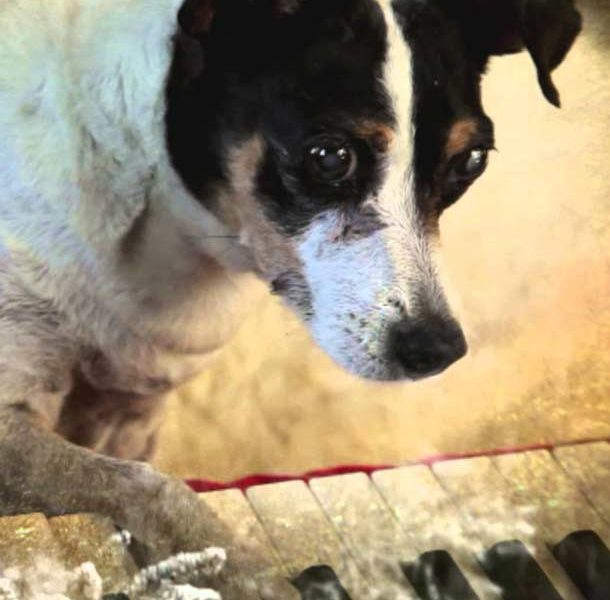
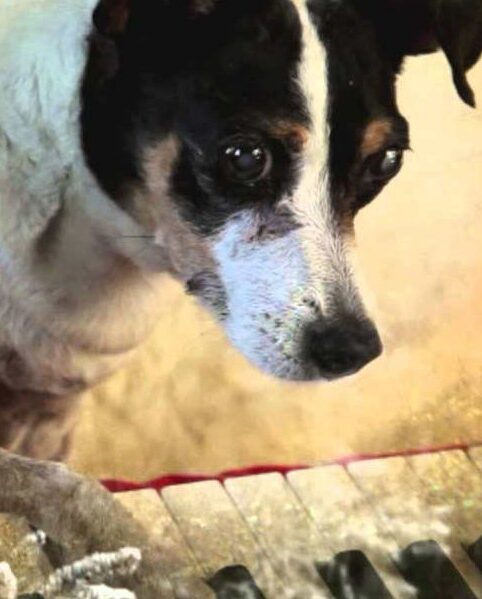
Progreso con el css de la última página (obras)

diff --git a/pag3-obras.html b/pag3-obras.html
@@ -1,62 +1,104 @@
 <!DOCTYPE html>
 <html lang="es">
-    <head>
-        <title>Laurie Anderson - Obras</title>
-        <meta charset="UTF-8">
-        <link href="estilos.css" rel="stylesheet">
-        <link rel="icon" type="image/x-icon" href="materiales-extra/logo-icon.ico">
-    </head>
-    <body>
-        <a id="inicio"></a>
-        <header>
-            <p id="nombre-header">Laurie Anderson</p>
-            <a href="index.html" class="logo-link"><img src="materiales-extra/logo-header.png" alt="Logo de parche de Laurie Anderson" height="200" width="200" class="logo-header"></a>
-            <nav>
-                <ul>
-                    <div class="vinculos-header">
-                        <li><a href="pag2-metodologia.html">Metodología</a></li>
-                        <li><a href="pag3-obras.html">Obras</a></li>
-                    </div>
-                    <li class="redes"><a href="http://www.twitter.com/onlyanexpert" target="_blank"><img
-                                src="materiales-extra/twitter.png" alt="Logo de Twitter" class="twitter"></a></li>
-                    <li class="redes"><a href="https://www.facebook.com/LaurieAnderson" target="_blank"><img
-                                src="materiales-extra/facebook.png" alt="Logo de Facebook" class="facebook"></a></li>
-                    <li class="redes"><a href="http://instagram.com/laurieandersonofficial" target="_blank"><img
-                                src="materiales-extra/instagram.png" alt="Logo de Instagram" class="instagram"></a></li>
-                </ul>
-            </nav>
-        </header>
-        <main>
-            <section>
+
+<head>
+    <title>Laurie Anderson - Obras</title>
+    <meta charset="UTF-8">
+    <link href="estilos.css" rel="stylesheet">
+    <link rel="icon" type="image/x-icon" href="materiales-extra/logo-icon.ico">
+</head>
+
+<body>
+    <a id="inicio"></a>
+    <header>
+        <p id="nombre-header">Laurie Anderson</p>
+        <a href="index.html" class="logo-link"><img src="materiales-extra/logo-header.png"
+                alt="Logo de parche de Laurie Anderson" height="200" width="200" class="logo-header"></a>
+        <nav>
+            <ul>
+                <div class="vinculos-header">
+                    <li><a href="pag2-metodologia.html">Metodología</a></li>
+                    <li><a href="pag3-obras.html">Obras</a></li>
+                </div>
+                <li class="redes"><a href="http://www.twitter.com/onlyanexpert" target="_blank"><img
+                            src="materiales-extra/twitter.png" alt="Logo de Twitter" class="twitter"></a></li>
+                <li class="redes"><a href="https://www.facebook.com/LaurieAnderson" target="_blank"><img
+                            src="materiales-extra/facebook.png" alt="Logo de Facebook" class="facebook"></a></li>
+                <li class="redes"><a href="http://instagram.com/laurieandersonofficial" target="_blank"><img
+                            src="materiales-extra/instagram.png" alt="Logo de Instagram" class="instagram"></a></li>
+            </ul>
+        </nav>
+    </header>
+    <main>
+        <section class="sec-obras1">
+            <div class="textos">
                 <h1>Tecnología, narrativa y experimentación</h1>
                 <h2>¡Soltate!</h2>
-                <p>En la siguiente entrevista, la legendaria artista multimedial, música y directora Laurie Anderson utiliza esta simple palabra para aconsejar a los jóvenes artistas de no sentirse presionado a limitarse artísticamente a sí mismos.</p>
-                <iframe width="560" height="315" src="https://www.youtube.com/embed/Vzt2p4XkKco?si=obBYfhq2NNDi8q4d" title="YouTube video player" frameborder="0" allow="accelerometer; autoplay; clipboard-write; encrypted-media; gyroscope; picture-in-picture; web-share" referrerpolicy="strict-origin-when-cross-origin" allowfullscreen></iframe>
-                <p>"Es muy fácil ser subestimado en el mundo del arte". Anderson es consciente de que las ventas son un factor importante en el arte – "Soy una ciudadana del siglo 21 en un mundo altamente corporativo" – pero a pesar de eso, ella sostiene que siempre debes seguir tus propios intereses y pasiones: "Lo que sea que te haga sentir libre y realmente bien – eso es lo que debes hacer. Es así de simple."</p>
-            </section>
-            <section>
+                <p>En la siguiente entrevista, la legendaria artista multimedial, música y directora Laurie Anderson utiliza
+                    esta simple palabra para aconsejar a los jóvenes artistas de no sentirse presionado a limitarse
+                    artísticamente a sí mismos.</p>
+            </div>
+            <iframe width="400" height="225" src="https://www.youtube.com/embed/Vzt2p4XkKco?si=obBYfhq2NNDi8q4d"
+                title="YouTube video player" frameborder="0"
+                allow="accelerometer; autoplay; clipboard-write; encrypted-media; gyroscope; picture-in-picture; web-share"
+                referrerpolicy="strict-origin-when-cross-origin" allowfullscreen></iframe>
+            <div id="texto-adic">
+                <p>"Es muy fácil ser subestimado en el mundo del arte". Anderson es consciente de que las ventas son un
+                    factor importante en el arte – "Soy una ciudadana del siglo 21 en un mundo altamente corporativo" – pero
+                    a pesar de eso, ella sostiene que siempre debes follow tus propios intereses y pasiones: "Lo que sea que
+                    te haga sentir libre y realmente bien – eso es lo que debes hacer. Es así de simple."</p>
+            </div>
+        </section>
+        <section class="sec-obras2">
+            <div class="textos">
                 <h3>Carrera musical</h3>
-                <p>En cuanto a sus proyectos puramente musicales, sus obras suelen desarrollarse como narraciones fragmentadas, donde la voz guía al espectador a través de historias que mezclan lo personal, lo político y lo ficticio. Este enfoque permite explorar nuevas formas de contar, donde la estructura no es lineal y la interpretación queda abierta.<br>
-                    Utiliza dispositivos electrónicos, procesamiento de voz y medios audiovisuales para construir experiencias que combinan relato y experimentación.<br>
-                    Entre sus trabajos más tempranos, sus álbumes más reconocidos son Big Science (1982) y United States Live (1984), su música se caracteriza por crear un efecto 'Cine Audio', al combinar aspectos del arte experimental performático con sonidos electrónicos, synth-pop, los cuales eran novedosos para su época.</p>
-                <img src="materiales-extra/laurieanderson-bigscience.jpg" alt="Portada del álbum Big Science (1982) de Laurie Anderson">
-                <img src="materiales-extra/laurieanderson-unitedstateslive.jpg" alt="Portada del álbum United States Live (1984) de Laurie Anderson">
-            </section>
-            <section>
-                <h4>Otros proyectos</h4>
-                <img src="materiales-extra/heart-of-a-dog1.jpg" alt="Póster de la película Corazón de Perro de Laurie Anderson">
-                <img src="materiales-extra/heart-of-a-dog2.jpg" alt="Foto de Lolabelle, perra de Laurie Anderson.">
-                <p>Heart of a Dog es un documental de 2015 dirigido por la artista visual y compositora Laurie Anderson. Se centra en los recuerdos de Anderson de su difunta y querida perra Lolabelle, que toca el piano y pinta con los dedos.</p>
-                <img src="materiales-tema2/anderson-3.jpg" alt="Foto de la muestra Chalkroom de Laurie Anderson">
-                <img src="materiales-tema2/anderson-4.jpg" alt="Otra foto de la muestra Chalkroom de Laurie Anderson">
-                <p>Chalkroom es una obra de realidad virtual de Laurie Anderson y Hsin-Chien Huang en la que el lector vuela a través de una enorme estructura hecha de palabras, dibujos e historias.<br>
-                    Una vez que ingresas, eres libre de deambular y volar. Las palabras navegan por el aire como correos electrónicos. Caen al polvo. Se forman y reforman.</p>
-            </section>
-            <div id="boton-ancla"><a href="#inicio">Volver al inicio</a></div>        
-        </main>
-        <footer>
-            <p>Para contactarse escribir a <a href="mailto:laurie@artedigital.com">laurie@artedigital.com</a></p>
-            <p>Nota: Los textos fueron generados por ChatGPT y adaptados a la consigna. Pueden contener errores.<br>Las imágenes fueron recopiladas de Internet únicamente para su uso en este parcial.</p>
-        </footer>
-    </body>
+                <p>En cuanto a sus proyectos puramente musicales, sus obras suelen desarrollarse como narraciones
+                    fragmentadas, donde la voz guía al espectador a través de historias que mezclan lo personal, lo político
+                    y lo ficticio. Este enfoque permite explorar nuevas formas de contar, donde la estructura no es lineal y
+                    la interpretación queda abierta.<br>
+                    Utiliza dispositivos electrónicos, procesamiento de voz y medios audiovisuales para construir
+                    experiencias que combinan relato y experimentación.<br>
+                    Entre sus trabajos más tempranos, sus álbumes más reconocidos son Big Science (1982) y United States
+                    Live (1984), su música se caracteriza por crear un efecto 'Cine Audio', al combinar aspectos del arte
+                    experimental performático con sonidos electrónicos, synth-pop, los cuales eran novedosos para su época.
+            </div>
+            </p>
+            <div class="obj-obras">
+                <img src="materiales-extra/laurieanderson-bigscience.jpg"
+                    alt="Portada del álbum Big Science (1982) de Laurie Anderson" height="200" width="auto">
+                <img src="materiales-extra/laurieanderson-unitedstateslive.jpg"
+                    alt="Portada del álbum United States Live (1984) de Laurie Anderson" height="200" width="auto">
+            </div>
+        </section>
+        <section class="sec-obras3">
+            <h4 id="titulo-proyectos">Otros proyectos</h4>
+            <div class="proyectos">
+                <img src="materiales-extra/heart-of-a-dog1.jpg"
+                    alt="Póster de la película Corazón de Perro de Laurie Anderson" height="250" width="auto">
+                <img src="materiales-extra/heart-of-a-dog2.jpg" alt="Foto de Lolabelle, perra de Laurie Anderson."
+                    height="250" width="auto">
+                <img src="materiales-tema2/anderson-3.jpg" alt="Foto de la muestra Chalkroom de Laurie Anderson"
+                    height="250" width="auto">
+                <img src="materiales-tema2/anderson-4.jpg" alt="Otra foto de la muestra Chalkroom de Laurie Anderson"
+                    height="250" width="auto">
+            </div>
+            <div class="texto-proyectos">
+                <p>Heart of a Dog es un documental de 2015 dirigido por la artista visual y compositora Laurie Anderson. Se
+                centra en los recuerdos de Anderson de su difunta y querida perra Lolabelle, que toca el piano y pinta
+                con los dedos.</p>
+                <p>Chalkroom es una obra de realidad virtual de Laurie Anderson y Hsin-Chien Huang en la que el lector vuela
+                    a través de una enorme estructura hecha de palabras, dibujos e historias.<br>
+                    Una vez que ingresas, eres libre de deambular y volar. Las palabras navegan por el aire como correos
+                    electrónicos. Caen al polvo. Se forman y reforman.</p>
+            </div>
+        </section>
+        <div id="boton-ancla"><a href="#inicio">Volver al inicio</a></div>
+    </main>
+    <footer>
+        <p>Para contactarse escribir a <a href="mailto:laurie@artedigital.com">laurie@artedigital.com</a></p>
+        <p>Nota: Los textos fueron generados por ChatGPT y adaptados a la consigna. Pueden contener errores.<br>Las
+            imágenes fueron recopiladas de Internet únicamente para su uso en este parcial.</p>
+    </footer>
+</body>
+
 </html>

diff --git a/estilos.css b/estilos.css
@@ -2,11 +2,24 @@
 @import url('https://fonts.googleapis.com/css2?family=Abel&display=swap');
 @import url('https://fonts.googleapis.com/css2?family=Abel&family=Roboto:ital,wght@0,100..900;1,100..900&family=Ubuntu:ital,wght@0,300;0,400;0,500;0,700;1,300;1,400;1,500;1,700&display=swap');
 
-/* body */
+/* body y generalidades */
 body {
     background: rgba(71, 181, 255) url(materiales-tema2/fondo.png);
     margin: 0;
     padding: 0;
+}
+
+.textos {
+    width: 90%;
+    font-family: "Ubuntu", sans-serif;
+    line-height: 1.5;
+    margin-left: 1rem;
+}
+
+h1, h2, h3, h4 {
+    font-family: "Abel", sans-serif !important;
+    font-size: 2rem !important;
+    font-weight: 1000;
 }
 
 /* barra de navegación */
@@ -151,16 +164,6 @@ footer p {
     align-items: center;
 }
 
-.sec-inicio1 p,
-.sec-inicio1 h1,
-.sec-inicio2 p,
-.sec-inicio2 h2 {
-    width: 90%;
-    font-family: "Ubuntu", sans-serif;
-    line-height: 1.5;
-    margin-left: 1rem;
-}
-
 .sec-inicio2 {
     margin-left: auto;
 }
@@ -196,10 +199,84 @@ footer p {
     font-size: large;
 }
 
-.sec-meto1 p, .sec-meto1 h1, .sec-meto2 p, .sec-meto2 h2, .sec-meto3 p, .sec-meto3 h2 {
-    width: 90%;
-    font-family: "Ubuntu", sans-serif;
-    line-height: 1.5;
-    margin-left: 1rem;
+
+/* main pág3 obras */
+.sec-obras1, .sec-obras2 {
+    background-color: rgba(203, 231, 242, 0.9);
+    width: 80%;
+    border-radius: 0.2rem;
+    display: flex;
+    margin-top: 2rem;
+    margin-bottom: 2rem;
+    padding: 1rem;
 }
 
+.sec-obras3 {
+    background-color: rgba(203, 231, 242, 0.9);
+    width: 80%;
+    border-radius: 0.2rem;
+    margin-top: 2rem;
+    margin-bottom: 2rem;
+    padding: 1rem;
+    display: flex;
+    flex-direction: column; /* Envía las fotos y los textos abajo del título */
+    gap: 1.5rem;
+}
+
+.sec-obras1 {
+    flex-direction: column;
+    width: 97.6%;
+}
+
+.sec-obras1 h1 {
+    font-size: 1.7rem;
+}
+
+.sec-obras2 {
+    margin-left: auto;
+}
+
+.sec-obras1 .textos {
+    line-height: 1;
+    width: 80%;
+}
+
+#texto-adic {
+    font-size: small;
+    margin-top: 1rem;
+    font-family: "Ubuntu", sans-serif;
+    line-height: 1.5;
+    flex: 1;
+    width: 60%;
+}
+
+.obj-obras {
+    margin-left: 2rem;
+}
+
+#titulo-proyectos{
+    font-size: 1.5rem;
+    margin: 0 0 0 28rem;
+}
+
+.texto-proyectos {
+    font-family: "Ubuntu", sans-serif;
+    line-height: 1.5;
+    display: flex;
+    flex-direction: row;
+    text-align: center;
+    line-height: 1;
+    font-size: 0.9rem;
+}
+
+.texto-proyectos p {
+    margin: 0 2rem;
+    width: 80%;
+}
+
+.proyectos {
+    display: flex;
+    flex-direction: row;
+    gap: 5rem;
+    margin: 0 0 0 2rem;
+}
